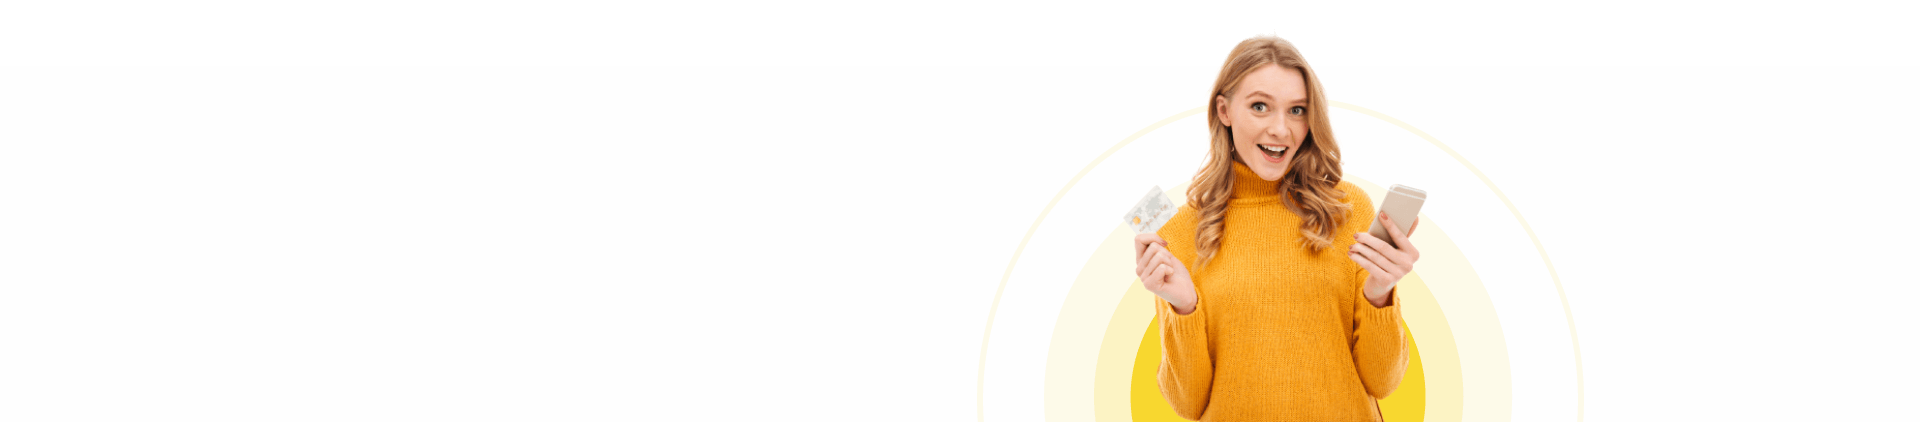
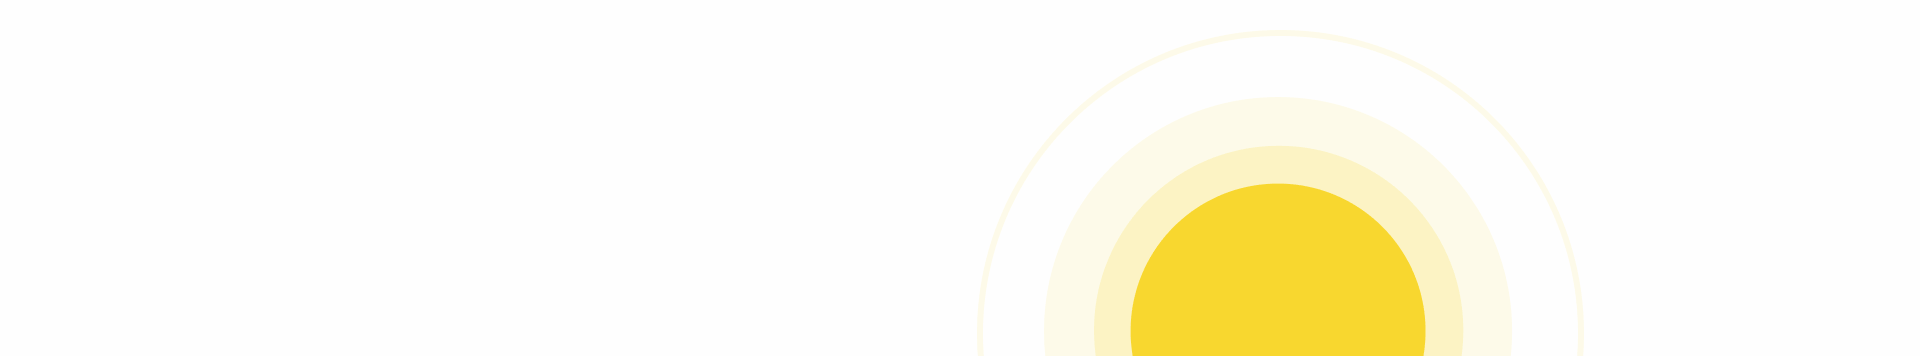
feat: add styles and content of the get money

Changed region(s): [[0.5625, 0.0927, 0.7812, 1.0]]

diff --git a/src/html/get-money.html b/src/html/get-money.html
@@ -2,6 +2,6 @@
   <h2 class="section-title section-title_position_left">Получи деньги здесь и сейчас</h2>
   <p class="get-money__text">Без проверки кредитной истории.</p>
   <p class="get-money__text">От 1 000 ₽ за 15 минут.</p>
-  <img src="./img/get-money-background.png" alt="Девушка с деньгами" class="get-money__img">
-  <button class="button" type="button">Оформить заявку</button>
+  <img src="./img/get-money-woman.png" alt="Девушка с деньгами" class="get-money__img">
+  <button class="button button_place-get-money" type="button">Оформить заявку</button>
 </section>

diff --git a/src/scss/blocks/get-money.scss b/src/scss/blocks/get-money.scss
@@ -1,7 +1,29 @@
 .get-money {
+  @include gridColumns1fr;
+  padding: 60px 0;
+  background-image: url(../img/get-money-background.png);
+  position: relative;
+
+  &__text {
+    font-weight: 400;
+    font-size: 27px;
+    line-height: 133.5%;
+    color: #536473;
+    @include resetMargin;
+    max-width: 1280px;
+    width: 100%;
+    text-align: left;
+
+    &:first-of-type {
+      margin-top: 26px;
+    }
+  }
 
   &__img {
-    max-width: 1920px;
+    max-width: 633px;
     width: 100%;
+    position: absolute;
+    bottom: 0;
+    right: 17%;
   }
 }

diff --git a/src/scss/style.scss b/src/scss/style.scss
@@ -12,6 +12,8 @@
 @import './blocks/form-credit';
 @import './blocks/h1';
 
+@import './blocks/content';
+
 @import './blocks/best-offers';
 @import './blocks/section-title';
 @import './blocks/offer';

diff --git a/src/scss/blocks/section-title.scss b/src/scss/blocks/section-title.scss
@@ -10,3 +10,9 @@
 .section-title_color_white {
   color: $colorWhite;
 }
+
+.section-title_position_left {
+  max-width: 1280px;
+  width: 100%;
+  text-align: left;
+}

diff --git a/src/scss/blocks/faq.scss b/src/scss/blocks/faq.scss
@@ -1,7 +1,7 @@
 .faq {
   @include gridColumns1fr;
   background-color: $bgGrey;
-  padding: 50px 0;
+  padding: 50px 0 80px;
   box-sizing: border-box;
 
   &__list {

diff --git a/src/scss/blocks/button.scss b/src/scss/blocks/button.scss
@@ -33,3 +33,9 @@
   line-height: 19px;
   color: #45515F;
 }
+
+.button_place-get-money {
+  justify-self: start;
+  margin-left: 16.5%;
+  margin-top: 26px;
+}

diff --git a/src/scss/blocks/content.scss b/src/scss/blocks/content.scss
@@ -1,0 +1,3 @@
+.content {
+  width: 100%;
+}
